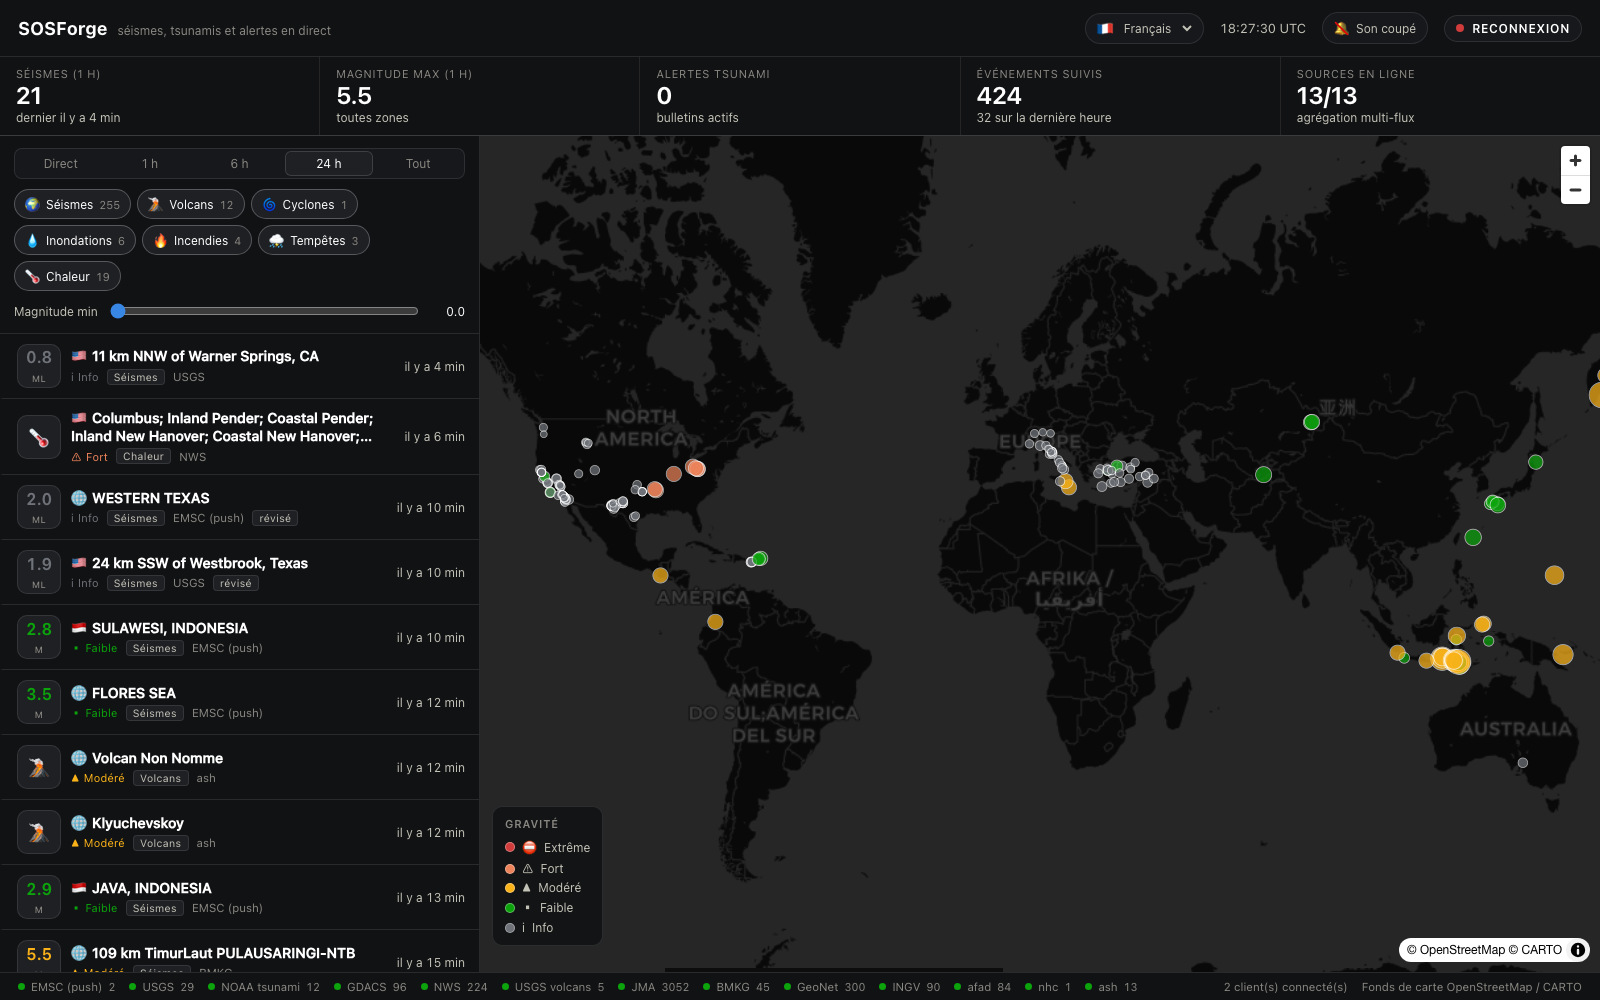
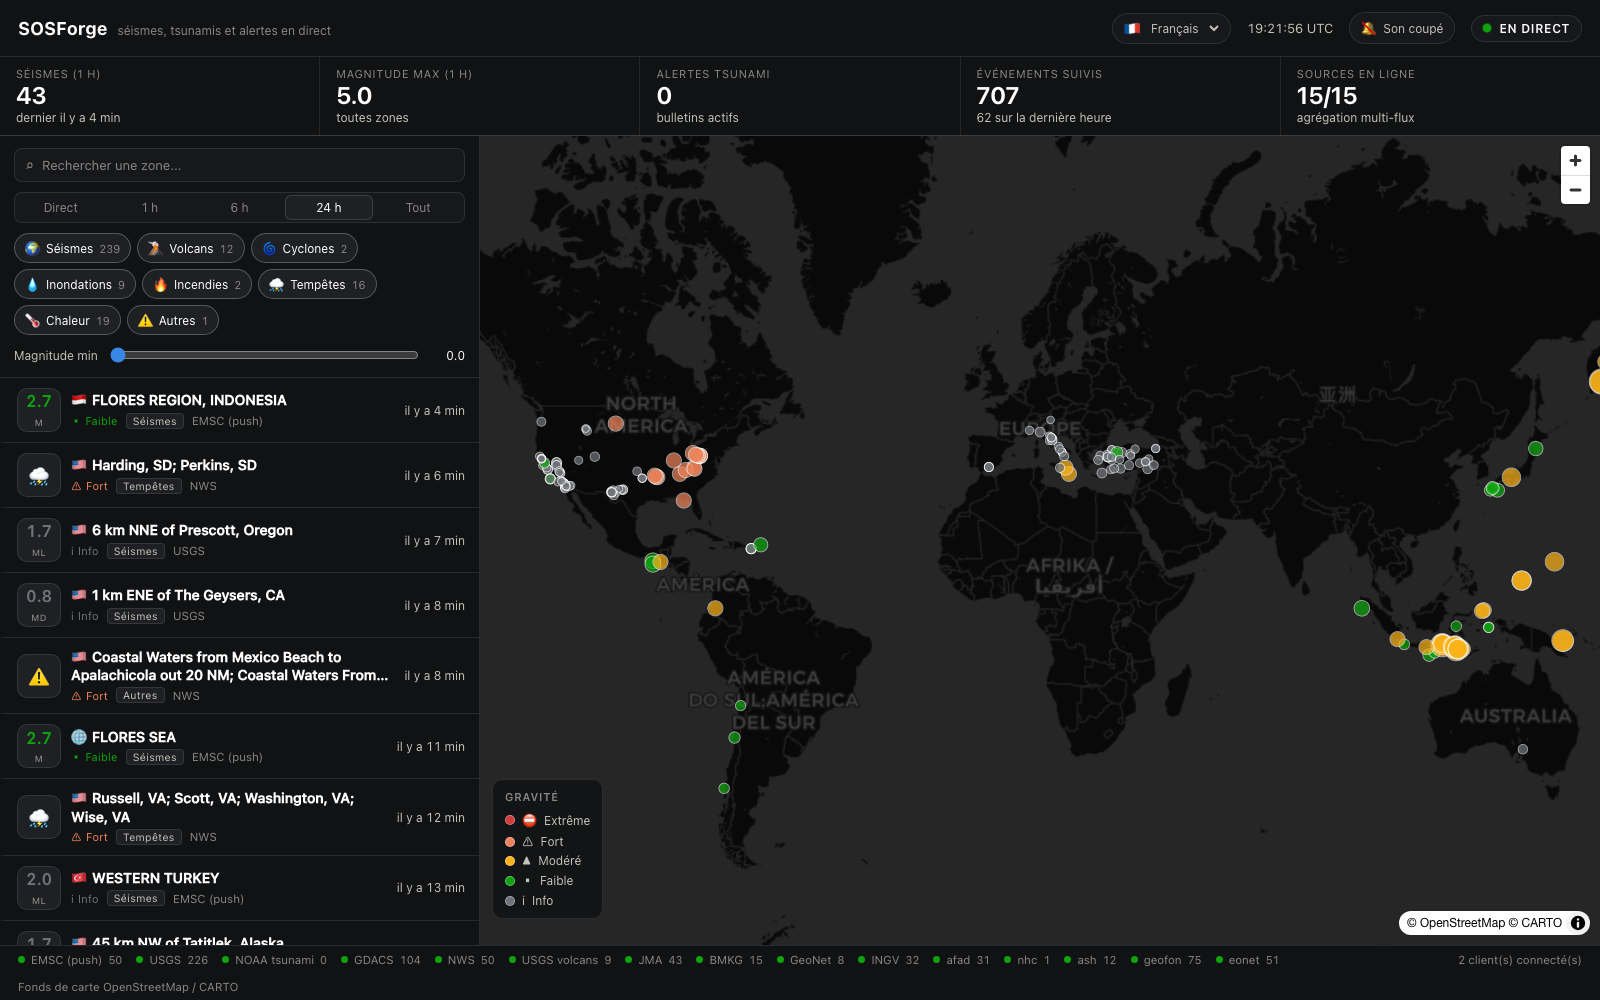
mobile utilisable, EONET borne, alertes en cours declarees par la source
Le telephone: KPI sur deux colonnes, flux avant la carte, puces de filtre en
bande defilante, baseline et legende masquees. La media query etait declaree
AVANT les regles qu'elle surcharge -- a specificite egale, la derniere gagnait.

'En cours' vient maintenant de la source (EONET status=open, NHC ne liste que
les tempetes actives, GDACS iscurrent) au lieu d'etre devine depuis la gravite:
EONET ne faisait passer que 2 evenements sur 200 a cause de ce mauvais proxy.

diff --git a/frontend/src/styles.css b/frontend/src/styles.css
@@ -42,6 +42,9 @@ body,
 }
 
 body {
+  /* aucun element ne doit pouvoir elargir la page: sur telephone, un debordement
+     horizontal rend tout le tableau de bord inutilisable */
+  overflow-x: hidden;
   background: var(--plane);
   color: var(--ink);
   font-family: var(--font);
@@ -74,11 +77,10 @@ button {
   min-height: 0;
 }
 
-@media (max-width: 900px) {
-  .body {
-    grid-template-columns: 1fr;
-    grid-template-rows: 1fr 1fr;
-  }
+/* Sans ca, un enfant large (les puces de filtre, le pied de page) elargit sa
+   colonne au-dela du viewport et toute la page defile horizontalement. */
+.body > * {
+  min-width: 0;
 }
 
 /* ------------------------------------------------------------------ entete */
@@ -930,4 +932,83 @@ button {
   padding: 8px 10px;
   font-size: 12.5px;
   color: var(--ink-muted);
+}
+
+
+/* ------------------------------------------------------------ telephone */
+
+@media (max-width: 900px) {
+  .body {
+    grid-template-columns: 1fr;
+    /* le flux d'abord, la carte ensuite: sur telephone on lit, on n'explore pas */
+    grid-template-rows: minmax(0, 1.6fr) minmax(0, 1fr);
+  }
+
+  /* Les puces de filtre prenaient trois lignes et volaient la place du flux.
+     Sur telephone elles deviennent une bande qui defile horizontalement: on en
+     voit moins d'un coup, mais on voit enfin les evenements. */
+  .chips {
+    flex-wrap: nowrap;
+    overflow-x: auto;
+    scrollbar-width: none;
+    padding-bottom: 2px;
+  }
+
+  .chips::-webkit-scrollbar {
+    display: none;
+  }
+
+  .chip {
+    flex: 0 0 auto;
+  }
+
+  .header {
+    flex-wrap: wrap;
+    gap: 8px 12px;
+    padding: 10px 12px;
+  }
+
+  /* la baseline prenait quatre lignes a elle seule */
+  .brand span {
+    display: none;
+  }
+
+  .header .spacer {
+    display: none;
+  }
+
+  .kpis {
+    grid-template-columns: repeat(2, minmax(0, 1fr));
+  }
+
+  .kpi {
+    padding: 8px 12px;
+  }
+
+  .kpi .value {
+    font-size: 20px;
+  }
+
+  .filters {
+    padding: 10px 12px;
+  }
+
+  .item {
+    padding: 9px 12px;
+  }
+
+  /* elle mangeait un tiers d'une carte deja minuscule */
+  .legend {
+    display: none;
+  }
+
+  .footer {
+    font-size: 10.5px;
+    gap: 6px 10px;
+    padding: 6px 12px;
+  }
+
+  .footer .spacer {
+    display: none;
+  }
 }

diff --git a/README.md b/README.md
@@ -8,6 +8,9 @@ Aucune cle d'API n'est necessaire: les quinze sources sont publiques et ouvertes
 
 ![capture](docs/screenshot.png)
 
+<sub>Sur telephone, le flux passe devant et la carte dessous: on lit d'abord, on
+explore ensuite. [Capture mobile](docs/screenshot-mobile.png).</sub>
+
 ## Le principe
 
 Le "live a la seconde" ne vient pas d'un polling agressif d'une seule API. Il
